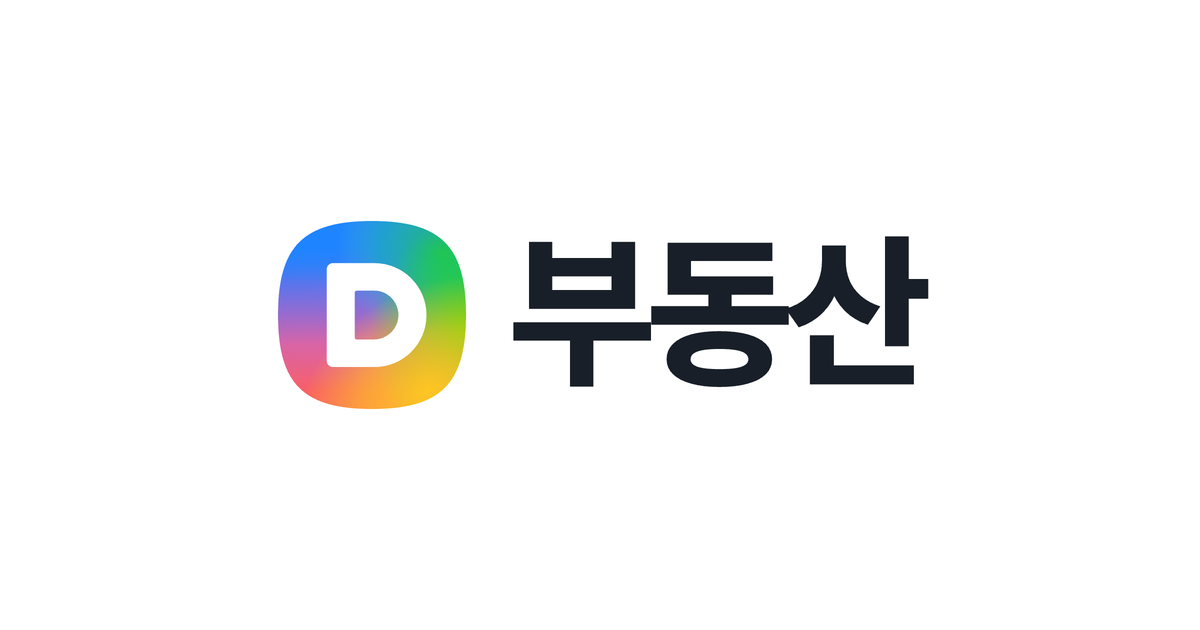
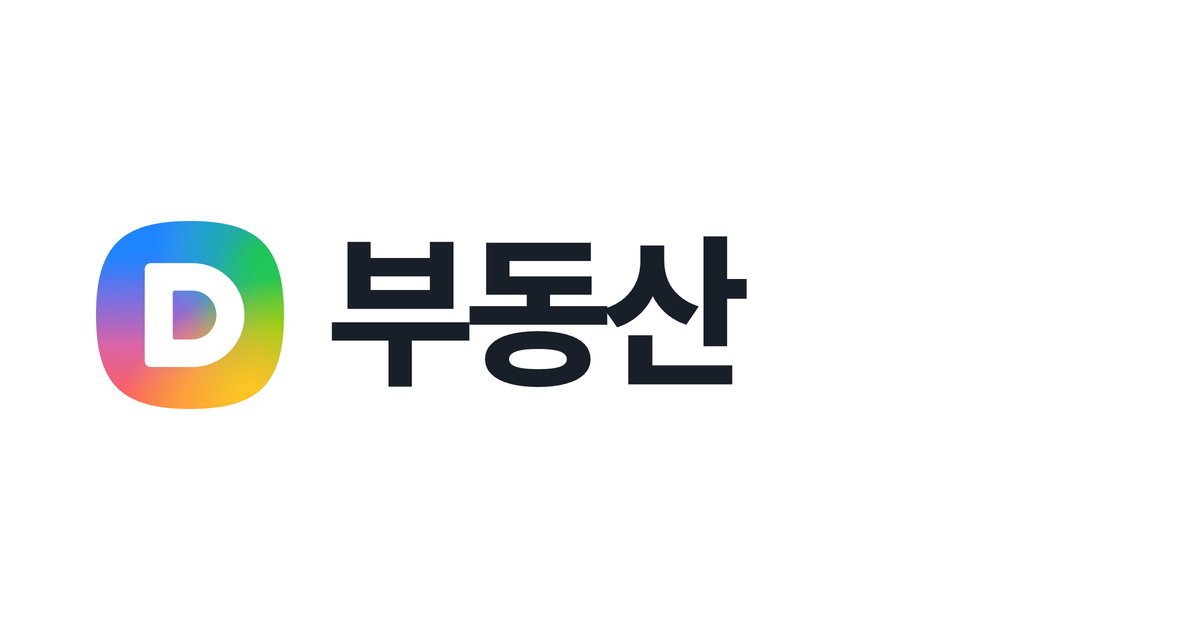
feat(brand): 서비스명 둥지 → 다음부동산 리브랜딩 + OG 좌측 정렬
Daum Anchor 디자인 시스템 OG 스펙(2 Depth Title: D 심볼 + 서비스명
좌측 정렬 락업)에 맞춰 OG 이미지 조정. 사용자 노출 문자열의
서비스명을 다음부동산으로 교체 (메타 타이틀, 저장 페이지 타이틀,
어드민 브랜드/로그인, AI 상담 봇 이름, 로고 alt).

Changed region(s): [[0.0617, 0.3317, 0.7708, 0.6635]]

diff --git a/app/api/chat/route.ts b/app/api/chat/route.ts
@@ -13,7 +13,7 @@ const anthropic = createAnthropic({
 });
 const MODEL_ID = process.env.ANTHROPIC_MODEL ?? "claude-sonnet-4-6";
 
-const SYSTEM_PROMPT = `당신은 한국 LH/마이홈 공공임대주택·공공분양 자격 상담 도우미 "둥지 AI"입니다.
+const SYSTEM_PROMPT = `당신은 한국 LH/마이홈 공공임대주택·공공분양 자격 상담 도우미 "다음부동산 AI"입니다.
 
 역할:
 - 사용자가 자신의 상황(나이, 가구 구성, 소득, 무주택 여부, 청약통장 등)을 알려주면, 어떤 공공주택 유형(행복주택·국민임대·영구임대·매입임대·전세임대·50년임대·공공분양)에 지원 가능한지 친절하게 안내합니다.

diff --git a/components/app-shell.tsx b/components/app-shell.tsx
@@ -182,7 +182,7 @@ export function AppShell({
       <header className="topbar">
         <div className="brand">
           {/* eslint-disable-next-line @next/next/no-img-element */}
-          <img src="/logo.svg" alt="둥지" className="brand-logo" />
+          <img src="/logo.svg" alt="다음부동산" className="brand-logo" />
           <button className="brand-ai-cta" onClick={() => setChatOpen(true)}>
             <span className="ai-spark" aria-hidden>✨</span>
             AI로 조건 찾기

diff --git a/app/saved/page.tsx b/app/saved/page.tsx
@@ -1,7 +1,7 @@
 import { LH_LISTINGS } from "@/lib/lh-adapter";
 import { SavedClient } from "./saved-client";
 
-export const metadata = { title: "저장한 공고 — 둥지" };
+export const metadata = { title: "저장한 공고 — 다음부동산" };
 
 // 저장 목록 (N1) — id 는 localStorage(클라이언트), 매물 데이터는 서버에서 전달해 조인.
 // LH_LISTINGS 는 마감 포함(M1)이라 저장한 공고가 마감돼도 계속 보인다.

diff --git a/app/admin/admin-shell.tsx b/app/admin/admin-shell.tsx
@@ -68,7 +68,7 @@ export default function AdminShell({ pageTitle, pageSub, navItems, cta, user = D
       <aside className="a-side" data-open={sideOpen}>
         <div className="a-brand">
           <div className="a-brand-mark">둥</div>
-          <div className="a-brand-name">둥지</div>
+          <div className="a-brand-name">다음부동산</div>
           <div className="a-brand-tag">ADMIN</div>
         </div>
 

diff --git a/app/admin/login/page.tsx b/app/admin/login/page.tsx
@@ -36,7 +36,7 @@ export default function AdminLoginPage() {
         <div className="a-login-brand">
           <div className="a-brand-mark">둥</div>
           <div>
-            <h1>둥지 어드민</h1>
+            <h1>다음부동산 어드민</h1>
             <p className="sub">LH 공고 검수 — 내부 도구</p>
           </div>
         </div>

diff --git a/app/layout.tsx b/app/layout.tsx
@@ -2,7 +2,7 @@ import type { Metadata } from "next";
 import "./globals.css";
 
 export const metadata: Metadata = {
-  title: "둥지 · 공공임대주택 정보",
+  title: "다음부동산 · 공공임대주택 정보",
   description: "행복주택·국민임대·통합공공임대 공고를 한눈에",
 };
 
